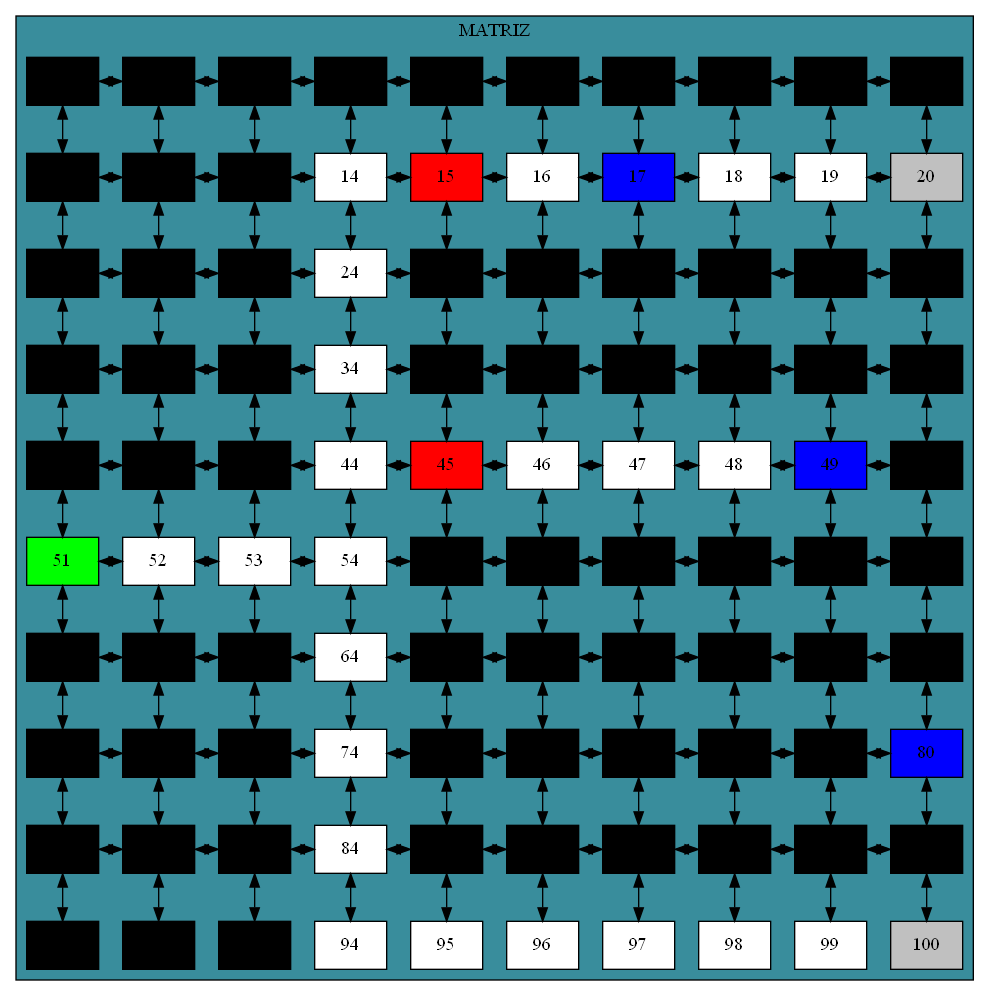
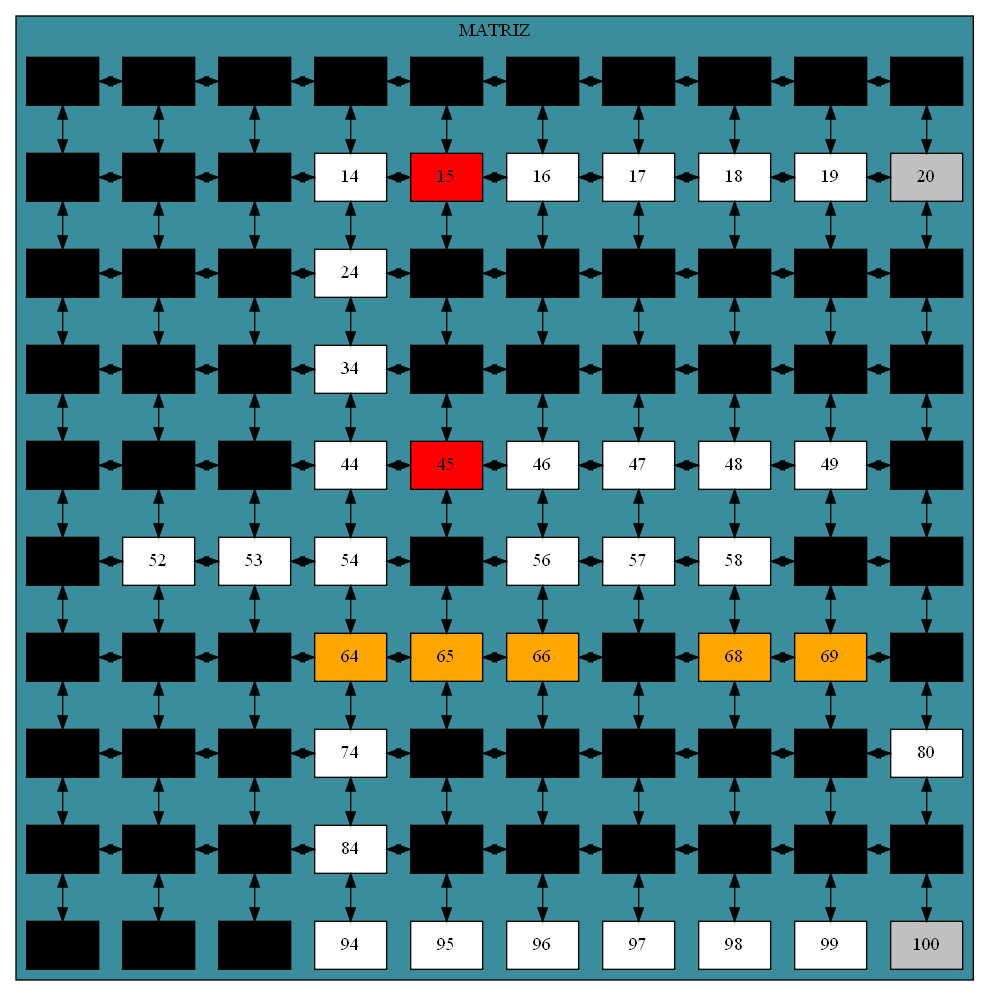
mover

diff --git a/Main.py b/Main.py
@@ -319,10 +319,27 @@ def menu():
             Generar_graphviz(lista_graf,ciudad_elegida)
 
         if(opcion == 4):
-            entrada = Ubicar_entrada(matriz, ciudad_elegida)
-            print("coordenadas entrada")
+            mat_aux = matriz
+            matriz_nueva = Ubicar_entrada(mat_aux, ciudad_elegida, celda_rescatar)
+            '''print("coordenadas entrada")
             print(entrada[0])
-            print(entrada[1])
+            print(entrada[1])'''
+            #################### PASAR MATRIZ A LISTA PARA GRAFICAR ###################
+            print("GRAFICANDO")
+            lista_graf = Estructuras_celda.ListaDoble_celda()
+            nodo = Estructuras_celda.Nodo('')
+            nodo = lista_graf.head
+            fil = int(ciudad_elegida.cant_filas)
+            col = int(ciudad_elegida.cant_columnas)
+            for i in range(1,fil+1,1):
+                for j in range(1,col+1,1):
+                    
+                    nodo = matriz_nueva.ubicarCoordenada(i,j)
+                    print(nodo.caracter)
+                    celda = Celda(i, j,nodo.caracter)
+                    lista_graf.añadirNodoPrincipio(celda)
+            lista_graf.imprimirLista()
+            Generar_graphviz(lista_graf,ciudad_elegida)
             
             if civil == True:
                 pass
@@ -333,24 +350,74 @@ def menu():
             print("ADIOOOOS!! :)")
             salir = True
                   
-def Ubicar_entrada(matriz_u, ciudad):
+def Ubicar_entrada(matriz_u, ciudad, celda_civil):
         '''tmp = Nodo_Celda(1,1,'')
         tmp = matriz.capa'''
         coordenada = [0,0]
         filas = int(ciudad.cant_filas)
-        
-
-        
-        for i in range(1,filas):
-            
+        x_fin = celda_civil.fila
+        y_fin = celda_civil.columna
+ 
+        for i in range(1,filas):   
             tmp : Nodo_Celda = matriz_u.filas.getCabecera(i).getAcceso()
             while tmp != None:
-                if tmp.caracter == 'E':
-                    coordenada[0] = tmp.coordenadaX
-                    coordenada[1] = tmp.coordenadaY
+                if tmp.caracter == 'E': #SI ENCUENTRA UNA ENTRADA ENTONCES A PARTIR DE AQUI DEBE TRAZAR UN CAMINO
+                    #PRIMERO DEBEMOS SABER DONDE ESTA LA UNIDAD CIVIL SI A LA DERECHA O IQUIERDA
+                    fila = tmp.coordenadaX
+                    col = tmp.coordenadaY
+                    completada = False
+                    
+                    if col > y_fin and fila == x_fin:
+                        print("DEBO MOVERME A LA IZQUIERDA")
+                        #VEREMOS SI SE PUEDE MOVER A LA IZQUIERDA
+                        temp_cambia : Nodo_Celda = matriz_u.filas.getCabecera(i).getAcceso()
+                        while temp_cambia != None: #EL TEMPORAL BUSCA LA POSICION DE LA ENTRADA
+                            if temp_cambia.coordenadaX == fila and temp_cambia.coordenadaY == col:
+                                print("encontre entrada")
+                                #AHORA QUE LO ENCONTRO DEBE CAMBIAR EL CAMINO
+                                while temp_cambia.coordenadaY != y_fin:#HASTA QUE LLEGE
+                                    print(temp_cambia.coordenadaY)
+                                    print(y_fin)
+                                    #SI PUEDE AVANZAR A LA IZQUIERDA
+                                    if temp_cambia.izquierda.caracter == 'E' or temp_cambia.izquierda.caracter == ' ' or temp_cambia.izquierda.caracter == 'C':
+                                        print("SI PUEDE TRANSITAR iz")
+                                        temp_cambia.izquierda.caracter = '#'
+                                    #SI PUEDE AVANZAR A LA DERECHA
+                                    elif temp_cambia.derecha.caracter == 'E' or temp_cambia.derecha.caracter == ' ' or temp_cambia.derecha.caracter == 'C':
+                                        print("SI PUEDE TRANSITAR dwer")
+                                        temp_cambia.derecha.caracter = '#'
+                                    #SI PUEDE AVANZAR HACIA ARRIBA
+                                    
+                                    
+                                    else:
+                                        print("no se puede transitar")
+                                        break
+                                    temp_cambia = temp_cambia.izquierda 
+                                break   
+                            temp_cambia = temp_cambia.getDerecha()
+                        
+                        if temp_cambia.coordenadaY == y_fin:
+                            print("MISION COMPLETADA")
+
+                            break
+                        else:
+                            print("MISION IMPOSIBLE")
+
+                    elif col < y_fin and fila == x_fin:
+                        print("DEBO MOVERME A LA IZQUIERDA")
+                    elif fila > x_fin and col == y_fin:
+                        print("DEBO MOVERME HACIA ARRIBA")
+                    elif fila < x_fin and col == y_fin:
+                        print("DEBO MOVERME HACIA ABAJO")
+
+
+                    '''coordenada[0] = tmp.coordenadaX
+                    coordenada[1] = tmp.coordenadaY'''
                 tmp = tmp.derecha
         
-        return coordenada
+        return matriz_u
+
+
 
 '''def Ubicar_entrada(matriz_u, ciudad, celda_civil):
         
